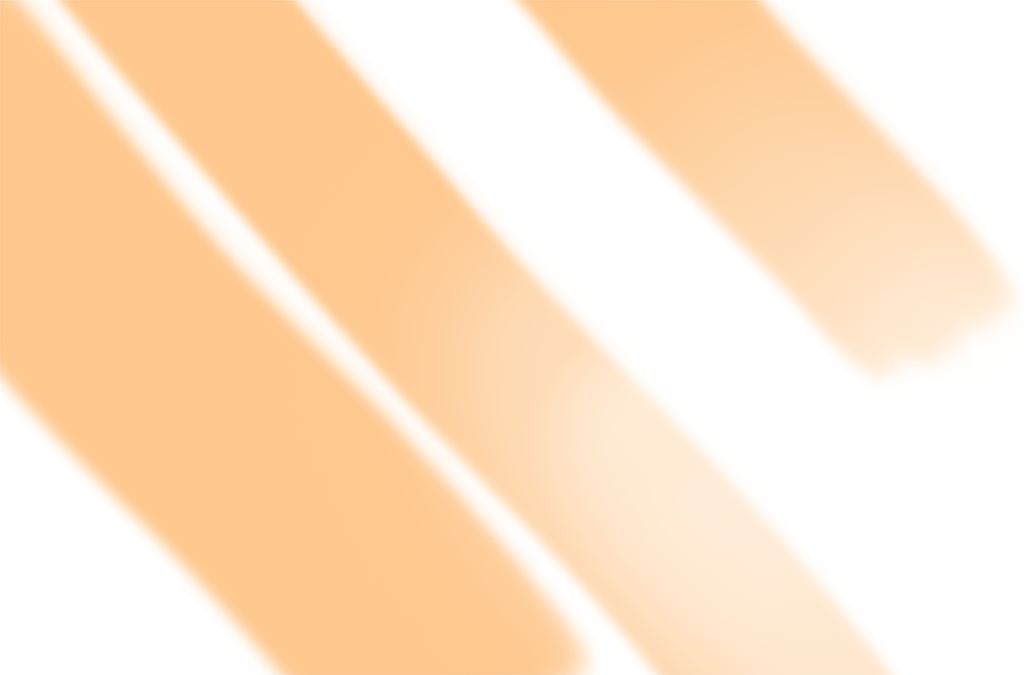
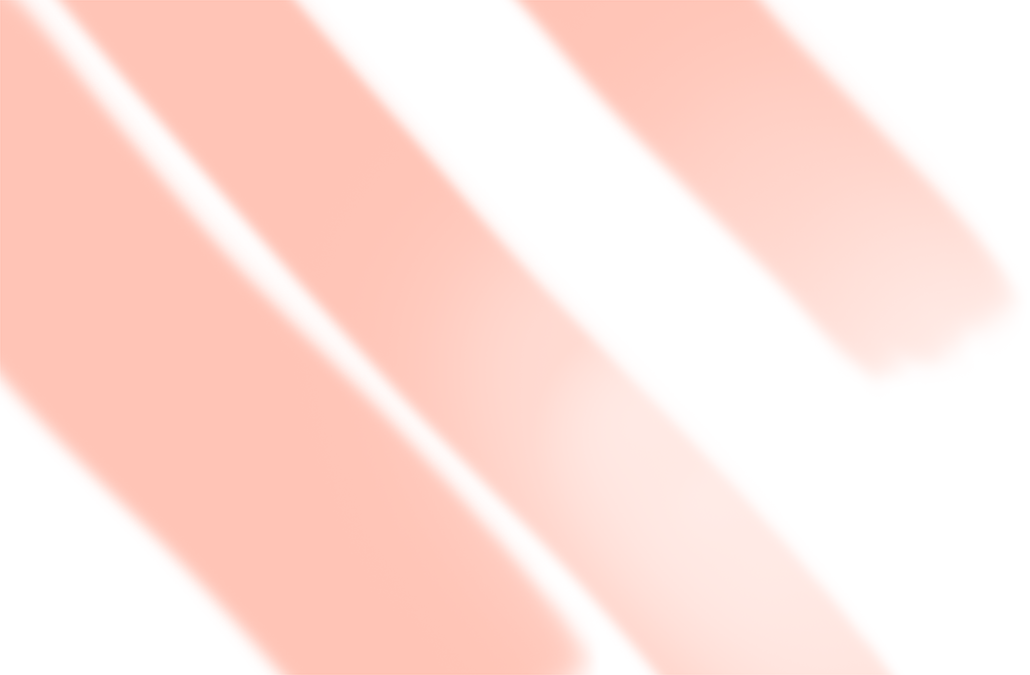
Rays now with overlay

diff --git a/scripts/initialWorld.js b/scripts/initialWorld.js
@@ -691,9 +691,7 @@ initialWorld.push(
 		}))
 		.addComponent(new components.Outfit({
 			imgName: 'Decors/Rays',
-			pivotX:  0,
-			pivotY:  0,
-			alpha:   0.3,
+			blendMode: 'overlay',
 			layer:   1
 		}))
 )
